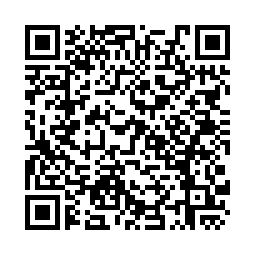
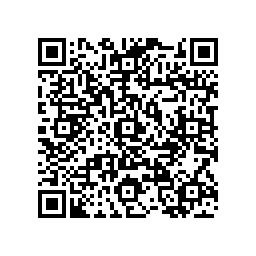
encode russian lang now

diff --git a/QRgenerator/src/main/java/neskj/QRgenerator/QRService/QRGenerator.java b/QRgenerator/src/main/java/neskj/QRgenerator/QRService/QRGenerator.java
@@ -13,6 +13,7 @@ import java.awt.*;
 import java.awt.image.BufferedImage;
 import java.io.File;
 import java.io.IOException;
+import java.nio.charset.StandardCharsets;
 import java.util.logging.Logger;
 
 @Component
@@ -20,36 +21,36 @@ import java.util.logging.Logger;
 public class QRGenerator implements QRReturner {
 
     private final static Logger logger = Logger.getLogger(QRGenerator.class.getName());
-
     private BufferedImage image;
 
     @Override
     public Object returnQrCode(Visitor visitor) {
 
-        String text = "New visitor: " + "\n" + "Organization : " + visitor.getOrganization() + "\n" + "Full name: "
+        String inputText = "New visitor: " + "\n" + "Organization : " + visitor.getOrganization() + "\n" + "Full name: "
                 + visitor.getSurname() + " " + visitor.getName() + " " + visitor.getPatronymic() + "\n" +
                 "Passport: " + visitor.getSerial() + " " + visitor.getNumber() + "\n" + "Date of visit: " + visitor.getDate();
-        logger.info("A line has been accepted to generate a QR code: " + "\n" + text);
-        int width = 256;
-        int height = 256;
+        logger.info("A line has been accepted to generate a QR code: " + "\n" + inputText);
 
+        byte[] encodeBytes = inputText.getBytes(StandardCharsets.UTF_8);
+        String encodeText = new String(encodeBytes,StandardCharsets.ISO_8859_1);
         try {
-            BitMatrix bitMatrix = new MultiFormatWriter().encode(text, BarcodeFormat.QR_CODE, width, height);
-            image=new BufferedImage(width,height,BufferedImage.TYPE_INT_RGB);
-            for(int i=0;i<height;i++) {
-                for (int j = 0; j < width; j++){
-                    image.setRGB(j,i, bitMatrix.get(j,i)? Color.BLACK.getRGB():Color.WHITE.getRGB());
+            int width = 256;
+            int height = 256;
+            BitMatrix bitMatrix = new MultiFormatWriter().encode(encodeText, BarcodeFormat.QR_CODE, width, height);
+            image = new BufferedImage(width, height, BufferedImage.TYPE_INT_RGB);
+            for (int i = 0; i < height; i++) {
+                for (int j = 0; j < width; j++) {
+                    image.setRGB(j, i, bitMatrix.get(j, i) ? Color.BLACK.getRGB() : Color.WHITE.getRGB());
                 }
             }
-        }catch (WriterException e){
-            logger.info("U has a Writer exception rhight now.");
+        } catch (WriterException e) {
+            logger.info("U have a Writer exception rhight now. ");
         }
         try {
             ImageIO.write(image, "png", new File("qr_code.png"));
-        }catch (IOException e){
+        } catch (IOException e) {
             logger.info("Attention !!! IO Exception!!");
         }
-
         return image;
     }
 }
